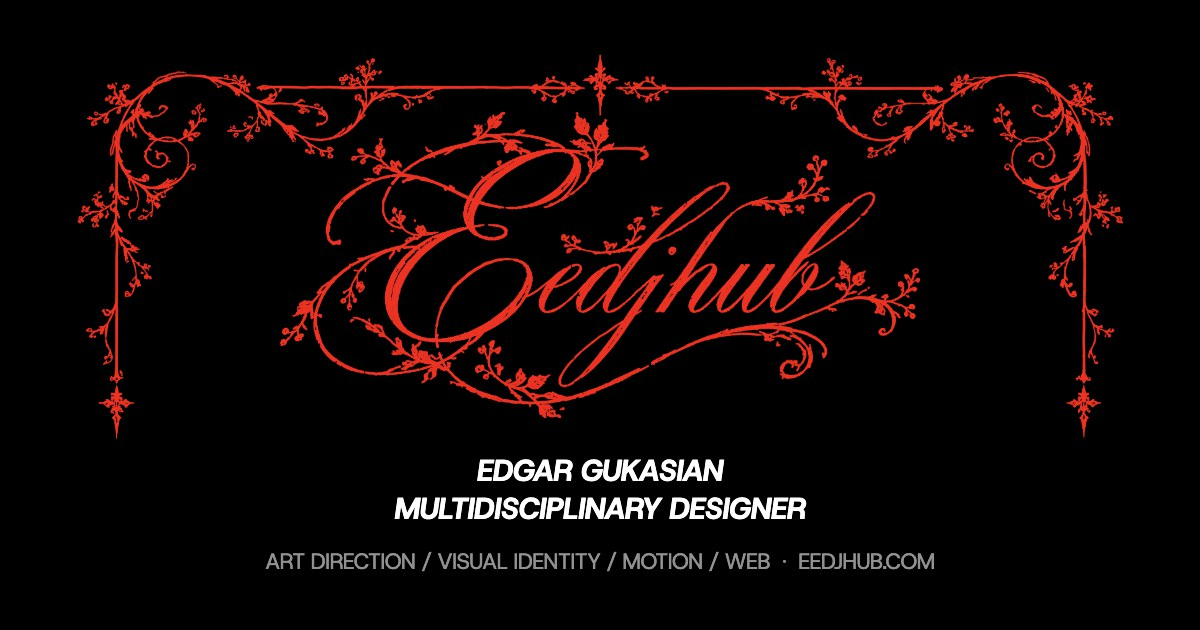
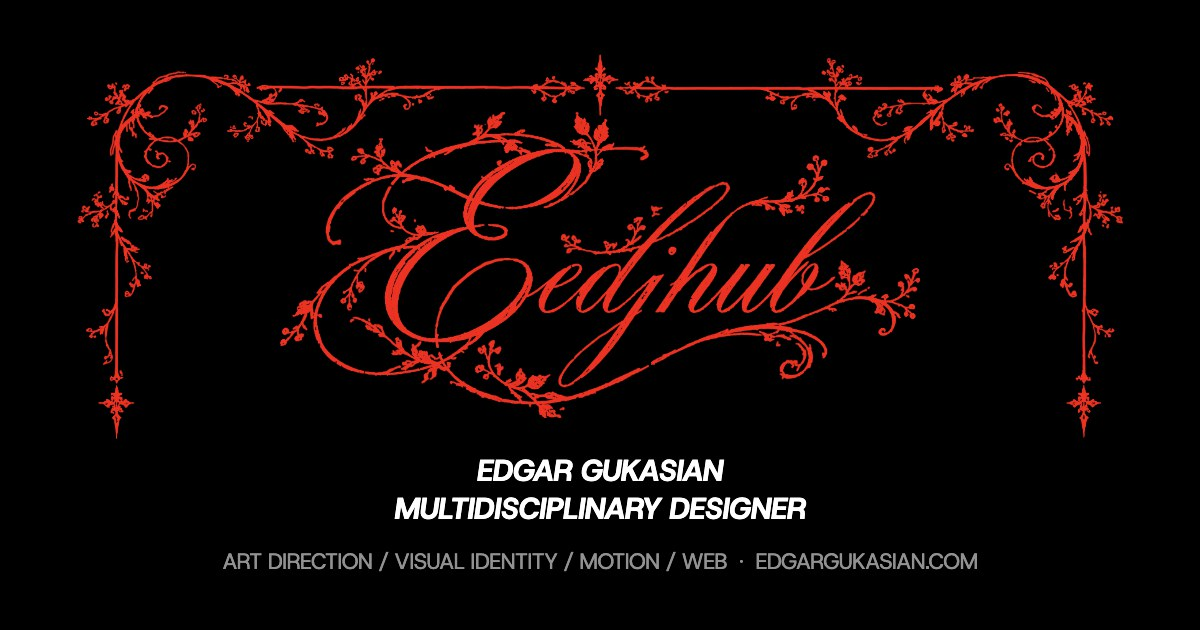
Point site URLs to edgargukasian.com
Canonical, Open Graph, sitemap, robots and the 404 link now use the new
domain; the link preview image shows edgargukasian.com.

Changed region(s): [[0.185, 0.8746, 0.8325, 0.9048]]

diff --git a/index.html b/index.html
@@ -5,16 +5,16 @@
   <meta name="viewport" content="width=device-width, initial-scale=1">
   <title>Edgar Gukasian — Multidisciplinary Designer</title>
   <meta name="description" content="Portfolio of Edgar Gukasian (eedjhub), multidisciplinary designer based in Saint Petersburg, working between Russia and Armenia.">
-  <link rel="canonical" href="https://eedjhub.com/">
+  <link rel="canonical" href="https://edgargukasian.com/">
   <meta name="theme-color" content="#000000">
 
   <!-- Link previews (Telegram, LinkedIn, WhatsApp, X) -->
   <meta property="og:type" content="website">
-  <meta property="og:url" content="https://eedjhub.com/">
+  <meta property="og:url" content="https://edgargukasian.com/">
   <meta property="og:site_name" content="eedjhub">
   <meta property="og:title" content="Edgar Gukasian — Multidisciplinary Designer">
   <meta property="og:description" content="Art direction, visual identity, motion and web design. Based in Saint Petersburg, working between Russia and Armenia.">
-  <meta property="og:image" content="https://eedjhub.com/assets/og.jpg">
+  <meta property="og:image" content="https://edgargukasian.com/assets/og.jpg">
   <meta property="og:image:width" content="1200">
   <meta property="og:image:height" content="630">
   <meta property="og:image:alt" content="Eedjhub lettering in a red ornamental frame">

diff --git a/404.html b/404.html
@@ -3,7 +3,7 @@
 <head>
   <meta charset="utf-8">
   <meta name="viewport" content="width=device-width, initial-scale=1">
-  <title>Page not found — eedjhub</title>
+  <title>Page not found — Edgar Gukasian</title>
   <meta name="robots" content="noindex">
   <meta name="theme-color" content="#000000">
   <link rel="icon" href="/favicon.ico" sizes="32x32">
@@ -41,7 +41,7 @@
     <img src="/assets/cross.webp" alt="" width="481" height="247">
     <h1>Page not found</h1>
     <p>This page doesn’t exist or has moved.</p>
-    <a href="/">Back to eedjhub.com</a>
+    <a href="/">Back to edgargukasian.com</a>
   </main>
 </body>
 </html>
